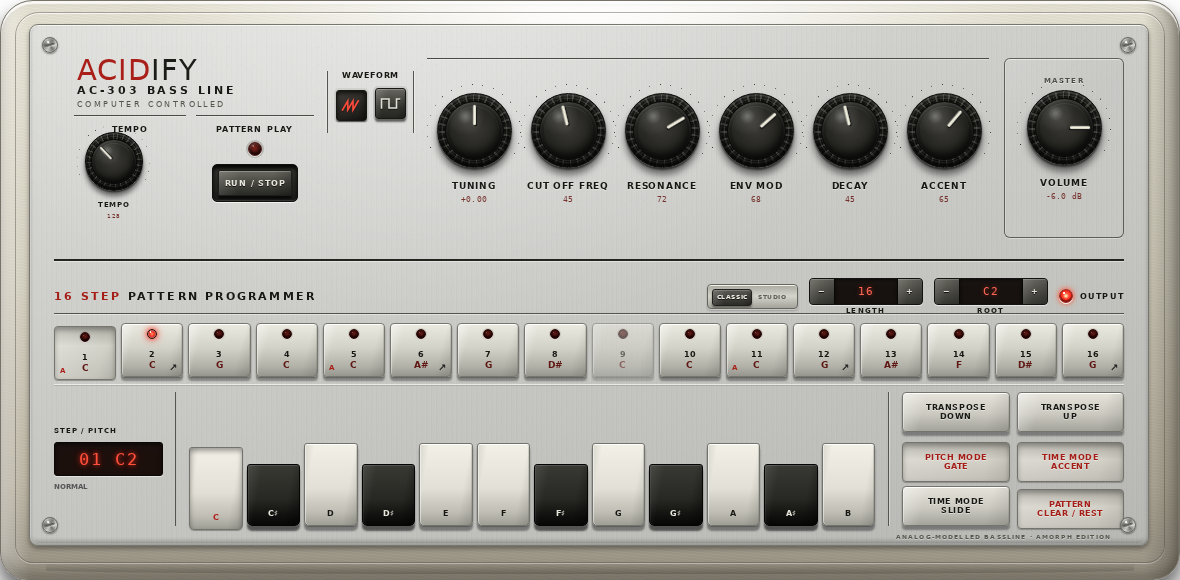
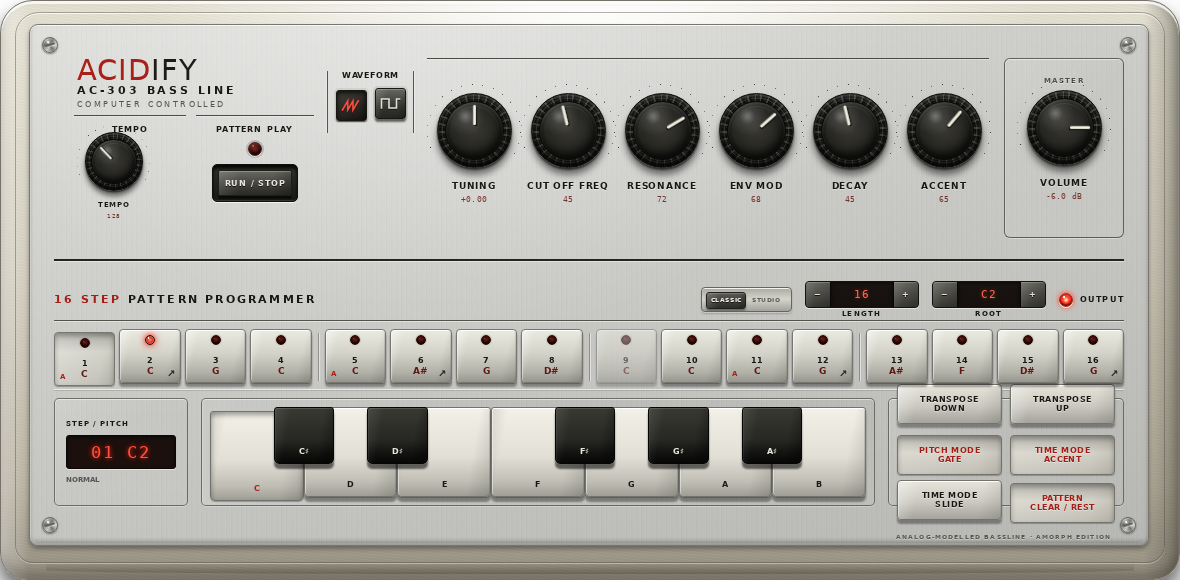
Refine ACIDIFY UI layout for 0.2.2

Changed region(s): [[0.0305, 0.4655, 0.9763, 0.931]]

diff --git a/ACIDIFYUI.js b/ACIDIFYUI.js
@@ -794,10 +794,16 @@ class AcidifyPatchView extends HTMLElement {
           <div class="value-label">--</div>
         </div>`;
     };
-    const steps = Array.from({ length: 16 }, (_, index) => `
-      <button class="sequence-step" data-step="${index}" aria-label="Step ${index + 1}">
-        <span class="step-led"></span><span class="step-index">${index + 1}</span><span class="step-note">--</span>
-      </button>`).join("");
+    const steps = Array.from({ length: 4 }, (_, group) => `
+      <div class="step-group" role="group" aria-label="Steps ${group * 4 + 1} to ${group * 4 + 4}">
+        ${Array.from({ length: 4 }, (_, position) => {
+          const index = group * 4 + position;
+          return `
+            <button class="sequence-step" data-step="${index}" aria-label="Step ${index + 1}">
+              <span class="step-led"></span><span class="step-index">${index + 1}</span><span class="step-note">--</span>
+            </button>`;
+        }).join("")}
+      </div>`).join("");
     const pitchKeys = NOTE_NAMES.map((name, index) => `
       <button class="pitch-key ${name.includes("#") ? "black-key" : "white-key"}" data-pitch="${index}">
         <span>${name.replace("#", "♯")}</span>
@@ -1131,14 +1137,14 @@ class AcidifyPatchView extends HTMLElement {
     position: absolute; left: 24px; right: 24px; top: 254px; height: 242px;
   }
   acidify-patch-view .program-header {
-    height: 35px; display: flex; align-items: center; justify-content: space-between;
+    height: 42px; display: flex; align-items: center; justify-content: space-between;
     border-bottom: 1px solid #53534d; font-size: 8px; font-weight: 900; letter-spacing: 1.2px;
     box-shadow: 0 1px rgba(255,255,255,.44);
   }
   acidify-patch-view .program-title { font-size: 11px; letter-spacing: 2.2px; }
   acidify-patch-view .program-title b { color: #a51d17; }
   acidify-patch-view .utility {
-    display: flex; align-items: center; gap: 11px; height: 100%;
+    display: flex; align-items: center; gap: 13px; height: 100%;
   }
   acidify-patch-view .studio-toggle {
     position: relative; width: 91px; height: 25px; padding: 0 7px; cursor: pointer; border-radius: 4px;
@@ -1211,7 +1217,18 @@ class AcidifyPatchView extends HTMLElement {
       inset 0 -2px 3px #310705;
   }
   acidify-patch-view .step-row {
-    display: grid; grid-template-columns: repeat(16, 1fr); gap: 5px; height: 70px; padding: 9px 0 7px;
+    display: grid; grid-template-columns: repeat(4, minmax(0, 1fr)); gap: 13px;
+    height: 68px; padding: 8px 0 6px;
+  }
+  acidify-patch-view .step-group {
+    position: relative; min-width: 0; display: grid;
+    grid-template-columns: repeat(4, minmax(0, 1fr)); gap: 4px;
+  }
+  acidify-patch-view .step-group:not(:last-child)::after {
+    content: ""; position: absolute; right: -7px; top: 4px; bottom: 2px; width: 1px;
+    background: rgba(70,70,65,.44);
+    box-shadow: 1px 0 rgba(255,255,255,.48);
+    pointer-events: none;
   }
   acidify-patch-view .sequence-step {
     position: relative; height: 54px; cursor: pointer; border-radius: 4px;
@@ -1263,14 +1280,14 @@ class AcidifyPatchView extends HTMLElement {
   acidify-patch-view .step-index { display: block; margin-top: 20px; font-size: 8px; font-weight: 900; }
   acidify-patch-view .step-note { display: block; margin-top: 1px; font-size: 9px; color: #5f1713; font-weight: 900; }
   acidify-patch-view .editor {
-    height: 124px; display: grid; grid-template-columns: 122px 1fr 236px; gap: 13px;
-    border-top: 1px solid rgba(255,255,255,.62); padding-top: 7px;
+    height: 122px; display: grid; grid-template-columns: 134px minmax(0, 1fr) 236px; gap: 13px;
+    border-top: 1px solid rgba(255,255,255,.62); padding-top: 8px;
     box-shadow: inset 0 1px rgba(61,61,57,.18);
   }
   acidify-patch-view .studio-editor { display: none; }
   acidify-patch-view.studio-mode .classic-editor { display: none; }
   acidify-patch-view.studio-mode .studio-editor {
-    position: relative; height: 124px; padding-top: 7px;
+    position: relative; height: 122px; padding-top: 8px;
     display: grid; grid-template-columns: 254px 1fr; gap: 13px;
     border-top: 1px solid rgba(255,255,255,.62);
     box-shadow: inset 0 1px rgba(61,61,57,.18);
@@ -1369,7 +1386,16 @@ class AcidifyPatchView extends HTMLElement {
     font-size: 5px; font-weight: 900; letter-spacing: .75px;
   }
   acidify-patch-view .edit-status {
-    border-right: 1px solid #55554f; padding-right: 12px; display: flex; flex-direction: column; justify-content: center;
+    min-width: 0; height: 108px; padding: 10px 11px;
+    display: flex; flex-direction: column; justify-content: center;
+    border: 1px solid rgba(74,74,68,.72); border-radius: 5px;
+    background:
+      linear-gradient(135deg, rgba(255,255,255,.13), transparent 46%),
+      linear-gradient(180deg, rgba(116,116,108,.025), rgba(255,255,255,.04));
+    box-shadow:
+      inset 0 1px rgba(255,255,255,.52),
+      inset 1px 0 rgba(255,255,255,.2),
+      0 1px rgba(255,255,255,.28);
   }
   acidify-patch-view .edit-caption { font-size: 7px; font-weight: 900; letter-spacing: 1px; }
   acidify-patch-view .edit-readout {
@@ -1386,9 +1412,23 @@ class AcidifyPatchView extends HTMLElement {
   acidify-patch-view .octave-indicator { margin-top: 7px; font-size: 7px; color: #555; }
   acidify-patch-view .octave-indicator::after { content: "NORMAL"; font-weight: 900; }
   acidify-patch-view .octave-indicator.high::after { content: "UP"; color: #a51d17; }
-  acidify-patch-view .keyboard { display: grid; grid-template-columns: repeat(12, 1fr); gap: 4px; align-items: end; }
+  acidify-patch-view .keyboard {
+    position: relative; min-width: 0; height: 108px; padding: 8px;
+    border: 1px solid rgba(74,74,68,.72); border-radius: 5px;
+    background:
+      linear-gradient(135deg, rgba(255,255,255,.13), transparent 46%),
+      linear-gradient(180deg, rgba(73,73,68,.05), rgba(255,255,255,.055));
+    box-shadow:
+      inset 0 1px rgba(255,255,255,.52),
+      inset 1px 0 rgba(255,255,255,.2),
+      0 1px rgba(255,255,255,.28);
+  }
+  acidify-patch-view .keyboard-keys {
+    position: relative; width: 100%; height: 100%;
+  }
   acidify-patch-view .pitch-key {
-    position: relative; height: 83px; cursor: pointer; border-radius: 3px 3px 5px 5px;
+    position: absolute; top: 0; bottom: 0; width: 14.285714%; cursor: pointer;
+    border-radius: 3px 3px 5px 5px;
     border: 1px solid #73736d;
     background:
       linear-gradient(100deg, rgba(119,117,107,.2), transparent 15% 77%, rgba(75,74,69,.22)),
@@ -1401,8 +1441,15 @@ class AcidifyPatchView extends HTMLElement {
       inset -1px 0 rgba(67,66,61,.18);
     font-size: 8px; font-weight: 900;
   }
+  acidify-patch-view .pitch-key[data-pitch="0"] { left: 0; }
+  acidify-patch-view .pitch-key[data-pitch="2"] { left: 14.285714%; }
+  acidify-patch-view .pitch-key[data-pitch="4"] { left: 28.571428%; }
+  acidify-patch-view .pitch-key[data-pitch="5"] { left: 42.857142%; }
+  acidify-patch-view .pitch-key[data-pitch="7"] { left: 57.142856%; }
+  acidify-patch-view .pitch-key[data-pitch="9"] { left: 71.42857%; }
+  acidify-patch-view .pitch-key[data-pitch="11"] { left: 85.714284%; }
   acidify-patch-view .pitch-key.black-key {
-    height: 62px; color: #e9e7dc;
+    z-index: 2; bottom: auto; width: 9.2%; height: 63%; color: #e9e7dc;
     background:
       linear-gradient(100deg, rgba(255,255,255,.09), transparent 24% 74%, rgba(0,0,0,.4)),
       linear-gradient(180deg, #393934 0%, #272723 57%, #11110f 84%, #070706 100%);
@@ -1412,6 +1459,11 @@ class AcidifyPatchView extends HTMLElement {
       inset 0 1px rgba(255,255,255,.14),
       inset 1px 0 rgba(255,255,255,.06);
   }
+  acidify-patch-view .pitch-key[data-pitch="1"] { left: 9.685714%; }
+  acidify-patch-view .pitch-key[data-pitch="3"] { left: 23.971428%; }
+  acidify-patch-view .pitch-key[data-pitch="6"] { left: 52.542856%; }
+  acidify-patch-view .pitch-key[data-pitch="8"] { left: 66.82857%; }
+  acidify-patch-view .pitch-key[data-pitch="10"] { left: 81.114284%; }
   acidify-patch-view .pitch-key.active, acidify-patch-view .pitch-key.midi {
     transform: translateY(4px); color: #b42018;
     box-shadow: 0 1px 1px rgba(0,0,0,.28), inset 0 3px 5px rgba(0,0,0,.36);
@@ -1423,12 +1475,19 @@ class AcidifyPatchView extends HTMLElement {
   }
   acidify-patch-view .pitch-key span { position: absolute; bottom: 7px; left: 0; right: 0; }
   acidify-patch-view .time-controls {
-    display: grid; grid-template-columns: repeat(2, 1fr); gap: 7px; align-content: center;
-    border-left: 1px solid #55554f; padding-left: 13px;
-    box-shadow: inset 1px 0 rgba(255,255,255,.33);
+    height: 108px; display: grid; grid-template-columns: repeat(2, 1fr); gap: 8px;
+    align-content: center; padding: 8px;
+    border: 1px solid rgba(74,74,68,.72); border-radius: 5px;
+    background:
+      linear-gradient(135deg, rgba(255,255,255,.13), transparent 46%),
+      linear-gradient(180deg, rgba(116,116,108,.025), rgba(255,255,255,.04));
+    box-shadow:
+      inset 0 1px rgba(255,255,255,.52),
+      inset 1px 0 rgba(255,255,255,.2),
+      0 1px rgba(255,255,255,.28);
   }
   acidify-patch-view .function-button {
-    height: 40px; cursor: pointer; border-radius: 4px; font-size: 8px; font-weight: 900; letter-spacing: .55px;
+    height: 40px; cursor: pointer; border-radius: 4px; font-size: 7.5px; font-weight: 900; letter-spacing: .45px;
     background:
       linear-gradient(105deg, rgba(255,255,255,.38), transparent 22% 78%, rgba(68,67,62,.16)),
       linear-gradient(180deg, #e5e3da 0%, #cbc9c0 55%, #a5a49c 100%);
@@ -1516,7 +1575,7 @@ class AcidifyPatchView extends HTMLElement {
           <strong class="edit-readout">--</strong>
           <span class="octave-indicator"></span>
         </div>
-        <div class="keyboard">${pitchKeys}</div>
+        <div class="keyboard"><div class="keyboard-keys">${pitchKeys}</div></div>
         <div class="time-controls">
           <button class="function-button" data-transpose="-12">TRANSPOSE<br>DOWN</button>
           <button class="function-button" data-transpose="12">TRANSPOSE<br>UP</button>

diff --git a/docs/VALIDATION.md b/docs/VALIDATION.md
@@ -1,4 +1,4 @@
-# Validierung 0.2.1
+# Validierung 0.2.2
 
 ## Automatische Prüfungen
 
@@ -11,15 +11,18 @@
 | JavaScript Syntax (`node --check`) | bestanden |
 | Live-Browser-Render (1180 × 580 px) | bestanden |
 | Schutzabstände Accent/Master/Volume | 13 px |
+| Vier Step-Gruppen mit 4 × 4 Steps | je 13 px Gruppenabstand |
+| Classic-Modulraster (Status/Keyboard/Timing) | gleiche Ober-/Unterkante, je 13 px Abstand |
+| Keyboard-Geometrie (7 weiße / 5 schwarze Tasten) | Overlay und Z-Reihenfolge bestanden |
 | Classic-UI (Dial, Toggle, Run, Step) | bestanden |
 | Studio-UI (Moduswechsel, 64 Lane-Cells, 11 Aktionen) | bestanden |
 | Studio-Bereichsauswahl und Drag-Paint | bestanden |
 | Studio-Undo, Copy/Paste, Batch-Transpose und Batch-Rest | bestanden |
 | Studio-Tastaturkürzel und temporäres Reglerfeedback | bestanden |
 | Responsive UI-Skalierung (590 × 290 px) | bestanden |
-| Cmajor 1.0.3175 C++-Codegen | bestanden |
-| MIDI→Stereo Render 44,1 kHz | Peak 0,45522; RMS 0,11637 |
-| MIDI→Stereo Render 48 kHz | Peak 0,44916; RMS 0,14604 |
+| Cmajor 1.0.3175 C++-Codegen | in 0.2.1 bestanden; DSP in 0.2.2 unverändert |
+| MIDI→Stereo Render 44,1 kHz | 0.2.1: Peak 0,45522; RMS 0,11637; DSP unverändert |
+| MIDI→Stereo Render 48 kHz | 0.2.1: Peak 0,44916; RMS 0,14604; DSP unverändert |
 
 Der Rauchtest rendert eine akzentuierte C2-Note für zwei Viertelnoten, prüft
 Stereoformat, endliche Samples, Nicht-Stille und Full-Scale-Sicherheit.
@@ -29,9 +32,17 @@ Startmodus, den Wechsel zu Studio, Shift-Bereichsauswahl, Drag-Paint über
 mehrere Accent-Zellen, Undo, Copy/Paste, Tastatur-Undo, Batch-Transpose,
 Batch-Rest, temporäres Reglerfeedback und die skalierten Panelgrenzen. Classic
 und Studio werden zusätzlich aus der laufenden Web-Component als getrennte
-PNG-Mockups gerendert. Ein zusätzlicher Geometrietest misst die Freiräume
-zwischen Accent-Ring, Master-Bucht und Volume-Ring, damit keine geprägte Linie
-bei nativer Größe in ein Bedienelement läuft.
+PNG-Mockups gerendert. Geometrietests messen die Freiräume zwischen Accent-Ring,
+Master-Bucht und Volume-Ring sowie Step-Gruppen, Classic-Modulen und den
+überlagerten Keyboard-Tasten. Damit können weder geprägte Linien noch
+Nachbarbereiche bei nativer Größe in Bedienelemente laufen.
+
+0.2.2 verändert ausschließlich UI, Browser-Geometrietest, Manifestversion und
+Dokumentation. `ACIDIFYDSP.cmajor` ist gegenüber dem bereits kompilierten und
+gerenderten Stand 0.2.1 unverändert. Ein erneuter Compilerlauf war in der
+aktuellen Umgebung nicht möglich, weil der bereitgestellten Cmajor-Binärdatei
+`libwebkit2gtk-4.0.so.37` und `libjavascriptcoregtk-4.0.so.18` fehlen; deshalb
+werden die Audiozahlen oben ausdrücklich als 0.2.1-Nachweis geführt.
 
 ## Bekannte Test-Harness-Grenze
 

diff --git a/README.md b/README.md
@@ -5,7 +5,7 @@ den [Amorph Host](https://github.com/ClarkParker/Amorph_DEV_KIt). Das Projekt
 verbindet eine hardwareinspirierte Bedienoberfläche mit einem 4× oversampelten
 Cmajor-DSP-Kern und einem 16-Step-Sequencer.
 
-> Status: **Research Prototype 0.2.1**. UI, Parametervertrag und ein spielbarer
+> Status: **Research Prototype 0.2.2**. UI, Parametervertrag und ein spielbarer
 > DSP-Kern sind implementiert. Die Bezeichnung „AAA“ ist ein Qualitätsziel, kein
 > bereits abgeschlossener Messnachweis; dafür fehlen noch Hardware-Captures,
 > Null-/Residualtests und ein kalibrierter Hörtest gegen mehrere Originalgeräte.
@@ -55,12 +55,17 @@ bestehenden DSP.
 
 ## Panel-Raster
 
-Die obere Bediensektion nutzt eine kleine Fibonacci-Abstandsskala (8, 13 und
-21 px). Klangregler, Waveform und Master-Bucht besitzen dadurch feste
-Schutzzonen; geprägte Trennlinien laufen nicht mehr in Regler oder Schalter.
-Volume sitzt als klar erkennbare Master-Sektion in einer eigenen, eingelassenen
-Bucht, während die sechs klangformenden Regler eine zusammenhängende Bank
-bleiben.
+Das Panel nutzt eine kleine Fibonacci-Abstandsskala (8, 13 und 21 px).
+Klangregler, Waveform und Master-Bucht besitzen dadurch feste Schutzzonen;
+geprägte Trennlinien laufen nicht in Regler oder Schalter. Volume sitzt als klar
+erkennbare Master-Sektion in einer eigenen, eingelassenen Bucht, während die
+sechs klangformenden Regler eine zusammenhängende Bank bleiben.
+
+Die 16 Sequencer-Schritte sind als vier musikalische Vierergruppen organisiert.
+Im Classic-Editor bilden Status, Keyboard und Timing drei gleich hohe
+Modulbuchten mit jeweils 13 px Abstand. Das Keyboard verwendet die korrekte
+Klaviergeometrie aus sieben lückenlosen weißen Tasten und fünf darüberliegenden,
+schmaleren schwarzen Tasten.
 
 ## Herkunft und Lizenz
 

diff --git a/docs/CONCEPT.md b/docs/CONCEPT.md
@@ -125,7 +125,9 @@ Designraster: 1180 × 580 px, skaliert per CSS `zoom`.
 - schwarzer Druck, rote LEDs, schwarze geriffelte Drehknöpfe,
 - Soundregler in der originaltypischen Reihenfolge,
 - linke Tempo-/Mode-Zone, rechte Volume-/Power-Zone,
-- untere Programmiersektion mit 16 Step-LEDs und tastaturähnlicher Pitch-Eingabe,
+- untere Programmiersektion mit vier gruppierten Viererblöcken,
+- korrekt geschichtetes Ein-Oktaven-Keyboard mit sieben weißen und fünf schwarzen Tasten,
+- gleich hohe Status-, Keyboard- und Timing-Module im 8/13/21-px-Abstandsraster,
 - eigene Kennzeichnung `ACIDIFY AC-303`, keine Roland-Logos.
 
 Die Materialdarstellung verwendet getrennte Licht- und Oberflächenmodelle:
